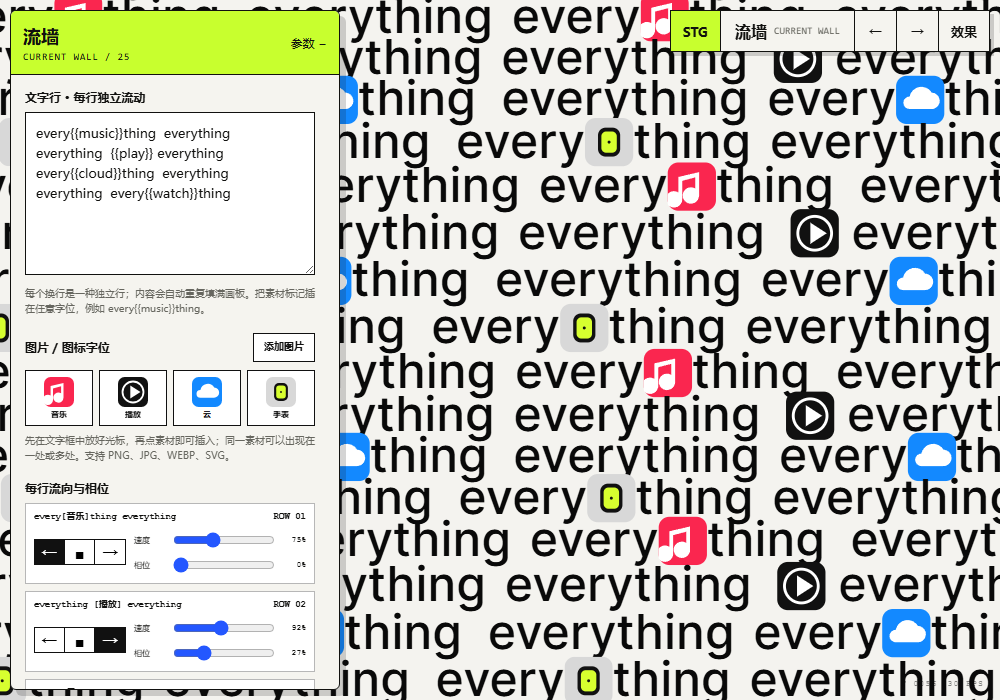
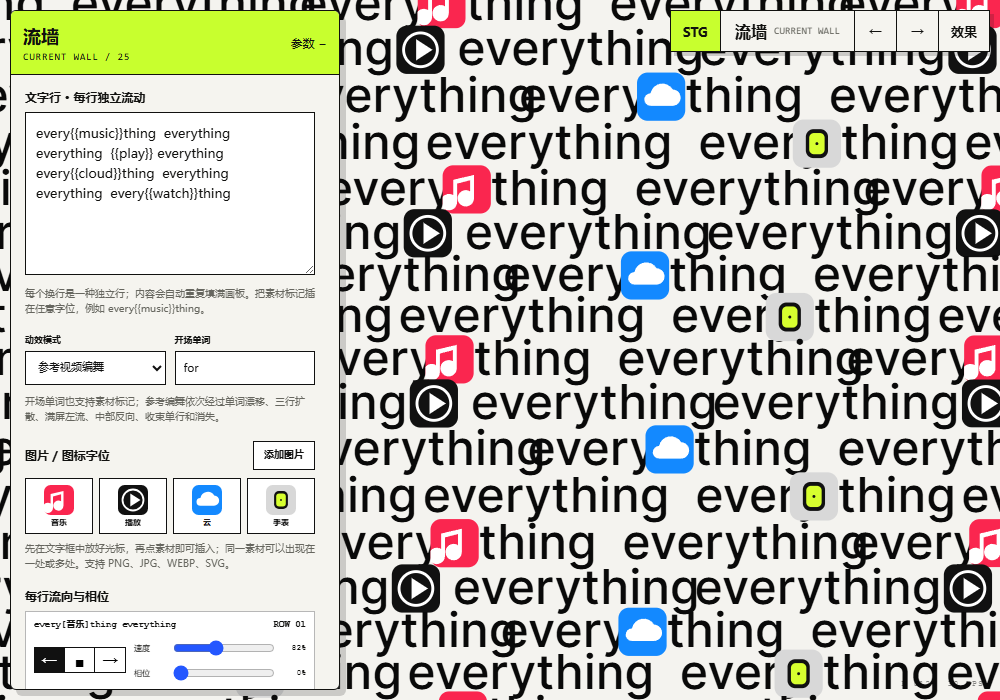
Refine Current Wall reference choreography

diff --git a/site/currentwall.js b/site/currentwall.js
@@ -10,7 +10,9 @@
     rows: $("#rowsInput"), font: $("#fontFamily"), fontSize: $("#fontSize"),
     lineGap: $("#lineGap"), speed: $("#speed"), assetScale: $("#assetScale"),
     wave: $("#wave"), waveRate: $("#waveRate"), vertical: $("#vertical"),
-    repeatGap: $("#repeatGap"), background: $("#backgroundColor"), foreground: $("#textColor")
+    repeatGap: $("#repeatGap"), background: $("#backgroundColor"), foreground: $("#textColor"),
+    motionMode: $("#motionMode"), introWord: $("#introWord"), cycleDuration: $("#cycleDuration"),
+    reversePull: $("#reversePull"), burst: $("#burst")
   };
 
   const fontPresets = {
@@ -34,7 +36,9 @@
   };
 
   const assets = new Map();
+  const layoutCache = new Map();
   let uploadSerial = 0;
+  let assetRevision = 0;
   let rowSettings = [];
   let animationStart = performance.now();
   let pausedAt = 0;
@@ -58,9 +62,13 @@
     image.onload = () => {
       asset.ratio = Math.max(.2, Math.min(5, image.naturalWidth / Math.max(1, image.naturalHeight)));
       asset.ready = true;
+      assetRevision += 1;
+      layoutCache.clear();
     };
     image.src = src;
     assets.set(id, asset);
+    assetRevision += 1;
+    layoutCache.clear();
   }
 
   builtIns.forEach(([id, label, src]) => addAsset(id, label, src));
@@ -77,8 +85,8 @@
   function syncRowSettings() {
     const rows = parseRows();
     rowSettings = rows.map((_, index) => rowSettings[index] || {
-      direction: index % 2 === 0 ? -1 : 1,
-      speed: 75 + (index * 17) % 51,
+      direction: -1,
+      speed: 82 + (index * 13) % 37,
       phase: (index * 27) % 100
     });
     const list = $("#rowFlowList");
@@ -168,6 +176,8 @@
     const asset = assets.get(id);
     if (!asset?.removable) return;
     assets.delete(id);
+    assetRevision += 1;
+    layoutCache.clear();
     inputs.rows.value = inputs.rows.value.split(`{{${id}}}`).join("");
     syncRowSettings();
     renderAssetGrid();
@@ -203,14 +213,28 @@
   }
 
   const mod = (value, divisor) => ((value % divisor) + divisor) % divisor;
+  const clamp01 = (value) => Math.max(0, Math.min(1, value));
+  const lerp = (from, to, amount) => from + (to - from) * amount;
+  const smooth = (value) => {
+    const x = clamp01(value);
+    return x * x * (3 - 2 * x);
+  };
+  const easeOut = (value) => 1 - Math.pow(1 - clamp01(value), 3);
+  const rangeProgress = (value, from, to) => clamp01((value - from) / (to - from));
 
   function layoutTokens(context, line, fontPx, assetHeight, repeatGap) {
+    const cacheKey = [line, context.font, fontPx.toFixed(3), assetHeight.toFixed(3), repeatGap.toFixed(3), assetRevision].join("|");
+    const cached = layoutCache.get(cacheKey);
+    if (cached) return cached;
     const items = tokensFor(line).map((token) => {
       if (token.type === "text") return { ...token, width: context.measureText(token.value).width };
       const asset = assets.get(token.id);
       return { ...token, asset, width: assetHeight * (asset?.ratio || 1), height: assetHeight };
     });
-    return { items, width: Math.max(fontPx, items.reduce((sum, item) => sum + item.width, 0) + repeatGap) };
+    const layout = { items, width: Math.max(fontPx, items.reduce((sum, item) => sum + item.width, 0) + repeatGap) };
+    if (layoutCache.size > 240) layoutCache.clear();
+    layoutCache.set(cacheKey, layout);
+    return layout;
   }
 
   function drawSequence(context, layout, x, y, color) {
@@ -230,6 +254,17 @@
       }
       cursor += item.width;
     });
+  }
+
+  function drawRepeatedLine(context, layout, y, width, color, shift, alpha = 1) {
+    let x = -mod(shift, layout.width) - layout.width;
+    context.save();
+    context.globalAlpha *= clamp01(alpha);
+    while (x < width + layout.width) {
+      drawSequence(context, layout, x, y, color);
+      x += layout.width;
+    }
+    context.restore();
   }
 
   function renderFrame(target, time, width, height, pixelRatio = 1) {
@@ -252,30 +287,91 @@
     const waveAmp = Number(inputs.wave.value) * scale;
     const waveRate = Number(inputs.waveRate.value) / 100;
     const verticalSpeed = Number(inputs.vertical.value) * scale;
-    const visualCount = Math.ceil(h / lineHeight) + 4;
-    const verticalOffset = mod(time * verticalSpeed, lineHeight);
+    const laneCount = Math.ceil(h / lineHeight) + 6;
+    const halfLanes = Math.ceil(laneCount / 2);
+    const choreography = inputs.motionMode.value === "choreography";
+    const cycleDuration = Number(inputs.cycleDuration.value) / 1000;
+    const localTime = choreography ? mod(time, cycleDuration) : time;
+    const progress = choreography ? localTime / cycleDuration : 0;
+    const verticalOffset = Math.sin(localTime * .34) * verticalSpeed * 1.8;
 
     context.font = `${preset.style} ${preset.weight} ${fontPx}px "${preset.family}", "Continuation SC", sans-serif`;
     context.textAlign = "left";
     context.textBaseline = "middle";
     context.imageSmoothingEnabled = true;
 
-    for (let visualIndex = -2; visualIndex < visualCount; visualIndex += 1) {
-      const sourceIndex = mod(visualIndex, rows.length);
+    if (choreography && progress < .215) {
+      const introFontPx = fontPx * 1.12;
+      const introAssetHeight = assetHeight * 1.12;
+      context.font = `${preset.style} ${preset.weight} ${introFontPx}px "${preset.family}", "Continuation SC", sans-serif`;
+      const introLayout = layoutTokens(context, inputs.introWord.value.trim() || "for", introFontPx, introAssetHeight, 0);
+      const driftTurn = .56;
+      const introPhase = rangeProgress(progress, 0, .18);
+      const drift = introPhase < driftTurn
+        ? lerp(0, -fontPx * .72, smooth(introPhase / driftTurn))
+        : lerp(-fontPx * .72, fontPx * .42, easeOut((introPhase - driftTurn) / (1 - driftTurn)));
+      const introAlpha = 1 - smooth(rangeProgress(progress, .165, .215));
+      const introScale = lerp(1, .91, smooth(rangeProgress(progress, .12, .21)));
+      context.save();
+      context.globalAlpha = introAlpha;
+      context.translate(w / 2 + drift, h / 2);
+      context.scale(introScale, introScale);
+      drawSequence(context, introLayout, -introLayout.width / 2, 0, inputs.foreground.value);
+      context.restore();
+      context.font = `${preset.style} ${preset.weight} ${fontPx}px "${preset.family}", "Continuation SC", sans-serif`;
+    }
+
+    const burstStrength = Number(inputs.burst.value) / 100;
+    const burstProgress = smooth(rangeProgress(progress, .18, .36));
+    const collapseProgress = smooth(rangeProgress(progress, .60, .88));
+    const initialScale = 1 + .34 * burstStrength;
+    let wallScale = 1;
+    let visibleRadius = halfLanes + 1;
+    let wallAlpha = 1;
+
+    if (choreography) {
+      wallScale = progress < .36 ? lerp(initialScale, 1, burstProgress) : lerp(1, 1.16, collapseProgress);
+      if (progress < .36) visibleRadius = lerp(1.08, halfLanes + 1, burstProgress);
+      else if (progress >= .60) visibleRadius = lerp(halfLanes + 1, .08, collapseProgress);
+      wallAlpha = smooth(rangeProgress(progress, .155, .205)) * (1 - smooth(rangeProgress(progress, .94, 1)));
+    }
+
+    const localWidth = w / wallScale;
+    context.save();
+    context.translate(w / 2, h / 2);
+    context.scale(wallScale, wallScale);
+    context.translate(-localWidth / 2, 0);
+
+    for (let laneIndex = -halfLanes; laneIndex <= halfLanes; laneIndex += 1) {
+      const sourceIndex = mod(laneIndex, rows.length);
       const setting = rowSettings[sourceIndex] || { direction: -1, speed: 100, phase: 0 };
       const layout = layoutTokens(context, rows[sourceIndex], fontPx, assetHeight, repeatGap);
-      const yWave = Math.sin(time * waveRate * 1.7 + visualIndex * .72) * waveAmp * .34;
-      const xWave = Math.sin(time * waveRate + visualIndex * .91) * waveAmp;
-      const y = visualIndex * lineHeight + verticalOffset + yWave;
+      const laneDistance = Math.abs(laneIndex);
+      let rowAlpha = 1 - smooth(rangeProgress(laneDistance, visibleRadius, visibleRadius + .9));
+      if (choreography && progress > .86 && laneIndex !== 0) rowAlpha *= 1 - smooth(rangeProgress(progress, .86, .90));
+      if (rowAlpha <= .001 || wallAlpha <= .001) continue;
+
+      const yWave = Math.sin(localTime * waveRate * 1.45 + laneIndex * .72) * waveAmp * .28;
+      const xWave = Math.sin(localTime * waveRate * .92 + laneIndex * .91) * waveAmp;
+      const y = laneIndex * lineHeight + verticalOffset + yWave;
       const velocity = fontPx * .9 * masterSpeed * (setting.speed / 100);
-      const signedTravel = setting.direction < 0 ? time * velocity : -time * velocity;
-      const shift = mod(signedTravel + setting.phase / 100 * layout.width + xWave, layout.width);
-      let x = -shift - layout.width;
-      while (x < w + layout.width) {
-        drawSequence(context, layout, x, y, inputs.foreground.value);
-        x += layout.width;
+      const signedTravel = setting.direction === 0 ? 0 : (setting.direction < 0 ? localTime * velocity : -localTime * velocity);
+      const globalLeftPull = choreography ? localWidth * .23 * smooth(rangeProgress(progress, .18, .90)) : 0;
+      let reverseTravel = 0;
+      if (choreography && progress > .47) {
+        const pull = Number(inputs.reversePull.value) / 100;
+        const enter = smooth(rangeProgress(progress, .47, .62));
+        const continueRight = Math.max(0, progress - .62);
+        const centerWeight = Math.exp(-(laneIndex * laneIndex) / 5.2);
+        reverseTravel = centerWeight * localWidth * pull * (.34 * enter + .72 * continueRight);
       }
+      const exitDrag = choreography && progress > .60
+        ? localWidth * .14 * collapseProgress * (1 - rowAlpha) * (laneIndex < 0 ? .55 : 1)
+        : 0;
+      const shift = signedTravel + setting.phase / 100 * layout.width + xWave + globalLeftPull + exitDrag - reverseTravel;
+      drawRepeatedLine(context, layout, y, localWidth, inputs.foreground.value, shift, rowAlpha * wallAlpha);
     }
+    context.restore();
   }
 
   function resizeCanvas() {
@@ -298,7 +394,8 @@
     const ratio = Number(canvas.dataset.ratio || 1);
     const time = currentTime();
     renderFrame(canvas, time, canvas.width / ratio, canvas.height / ratio, ratio);
-    frameCounter.textContent = `F ${String(Math.round(time * fps)).padStart(4, "0")}`;
+    const displayTime = inputs.motionMode.value === "choreography" ? mod(time, Number(inputs.cycleDuration.value) / 1000) : time;
+    frameCounter.textContent = `F ${String(Math.round(displayTime * fps)).padStart(4, "0")}`;
     rafId = requestAnimationFrame(previewLoop);
   }
 
@@ -331,7 +428,10 @@
       waveOut: inputs.wave.value,
       waveRateOut: (Number(inputs.waveRate.value) / 100).toFixed(2),
       verticalOut: inputs.vertical.value,
-      repeatGapOut: inputs.repeatGap.value
+      repeatGapOut: inputs.repeatGap.value,
+      cycleDurationOut: `${(Number(inputs.cycleDuration.value) / 1000).toFixed(1)}秒`,
+      reversePullOut: `${inputs.reversePull.value}%`,
+      burstOut: `${inputs.burst.value}%`
     };
     Object.entries(values).forEach(([id, value]) => { $(`#${id}`).textContent = value; });
     document.documentElement.style.setProperty("--text-color", inputs.foreground.value);
@@ -339,6 +439,7 @@
 
   Object.values(inputs).forEach((input) => input.addEventListener("input", updateOutputs));
   inputs.rows.addEventListener("input", syncRowSettings);
+  inputs.motionMode.addEventListener("change", () => setTime(0));
 
   function exportDimensions() {
     const preset = $("#exportPreset").value;
@@ -391,7 +492,7 @@
     }
     const output = makeExportCanvas();
     const gifFps = 12;
-    const duration = 4;
+    const duration = inputs.motionMode.value === "choreography" ? Number(inputs.cycleDuration.value) / 1000 : 4;
     const frameTotal = gifFps * duration;
     setExportBusy(true, `正在准备 GIF · 0 / ${frameTotal} 帧`);
     try {
@@ -435,7 +536,7 @@
         resolve(extension.toUpperCase());
       };
     });
-    const duration = 4;
+    const duration = inputs.motionMode.value === "choreography" ? Number(inputs.cycleDuration.value) / 1000 : 4;
     setExportBusy(true, "正在录制视频 · 0%");
     recorder.start();
     const started = performance.now();

diff --git a/site/currentwall.html b/site/currentwall.html
@@ -32,6 +32,19 @@ everything  every{{watch}}thing</textarea>
         <p class="hint">每个换行是一种独立行；内容会自动重复填满画板。把素材标记插在任意字位，例如 every{{music}}thing。</p>
       </section>
 
+      <section class="scene-grid">
+        <label>动效模式
+          <select id="motionMode">
+            <option value="choreography" selected>参考视频编舞</option>
+            <option value="continuous">持续满屏水流</option>
+          </select>
+        </label>
+        <label>开场单词
+          <input id="introWord" type="text" value="for" spellcheck="false">
+        </label>
+        <p class="hint">开场单词也支持素材标记；参考编舞依次经过单词漂移、三行扩散、满屏左流、中部反向、收束单行和消失。</p>
+      </section>
+
       <section class="asset-section">
         <div class="section-heading">
           <p class="section-label">图片 / 图标字位</p>
@@ -104,6 +117,15 @@ everything  every{{watch}}thing</textarea>
         <label>字间填充 <output id="repeatGapOut">24</output>
           <input id="repeatGap" type="range" min="0" max="160" value="24">
         </label>
+        <label>循环时长 <output id="cycleDurationOut">9.2秒</output>
+          <input id="cycleDuration" type="range" min="6000" max="14000" step="100" value="9200">
+        </label>
+        <label>反向牵引 <output id="reversePullOut">100%</output>
+          <input id="reversePull" type="range" min="0" max="180" value="100">
+        </label>
+        <label>扩散力度 <output id="burstOut">100%</output>
+          <input id="burst" type="range" min="50" max="180" value="100">
+        </label>
       </section>
 
       <section class="color-row">
@@ -139,7 +161,7 @@ everything  every{{watch}}thing</textarea>
           <button id="exportGif" type="button">GIF 动图</button>
           <button id="exportVideo" type="button">视频</button>
         </div>
-        <p class="export-status" id="exportStatus" aria-live="polite">PNG 导出当前帧；GIF / 视频导出 4 秒无缝流动。</p>
+        <p class="export-status" id="exportStatus" aria-live="polite">PNG 导出当前帧；GIF / 视频导出一遍完整编舞。</p>
       </section>
       <p class="formula">复用 Layers 的取模回卷原理<br>行位置 = 相位 + 时间 × 行速度 + 正弦水波</p>
     </div>

diff --git a/site/currentwall.css b/site/currentwall.css
@@ -43,6 +43,33 @@
 
 .section-heading .section-label { margin: 0; }
 
+.scene-grid {
+  display: grid;
+  grid-template-columns: 1fr 1fr;
+  gap: 9px;
+}
+
+.scene-grid label {
+  display: grid;
+  gap: 6px;
+  font-size: 9px;
+  font-weight: 700;
+}
+
+.scene-grid input,
+.scene-grid select {
+  width: 100%;
+  min-height: 34px;
+  border: 1px solid #111;
+  border-radius: 0;
+  background: #fff;
+  padding: 6px 8px;
+  color: #111;
+  font: 11px/1.2 "Courier New", monospace;
+}
+
+.scene-grid .hint { grid-column: 1 / -1; margin: 0; }
+
 .upload-button {
   display: inline-grid;
   place-items: center;
